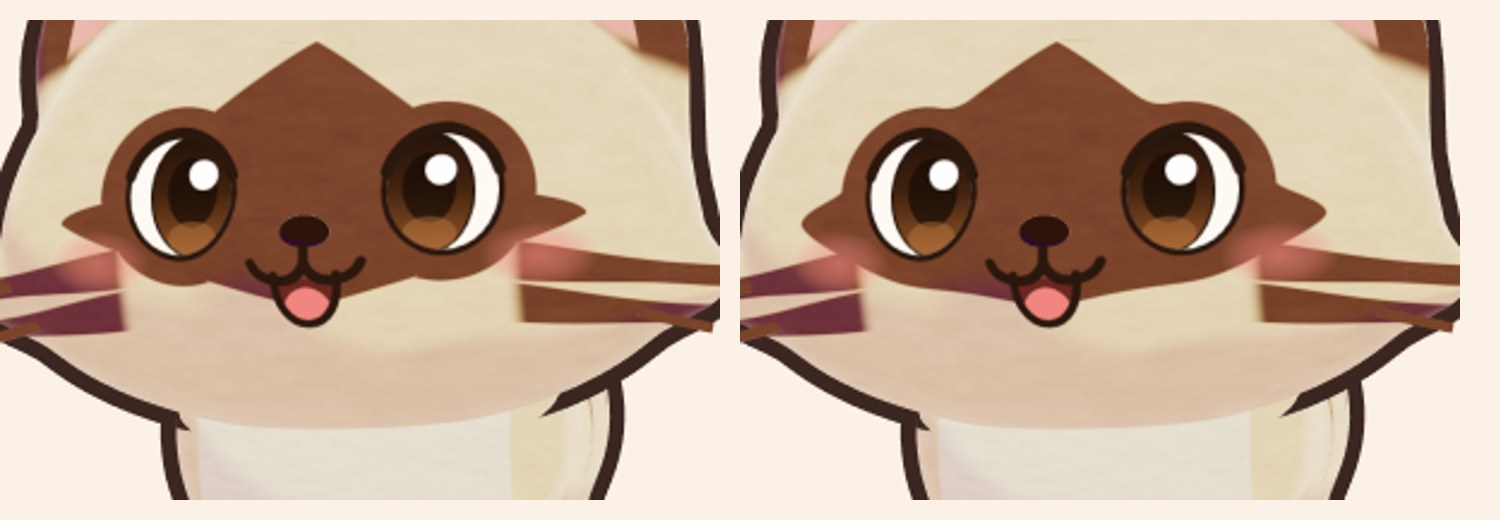
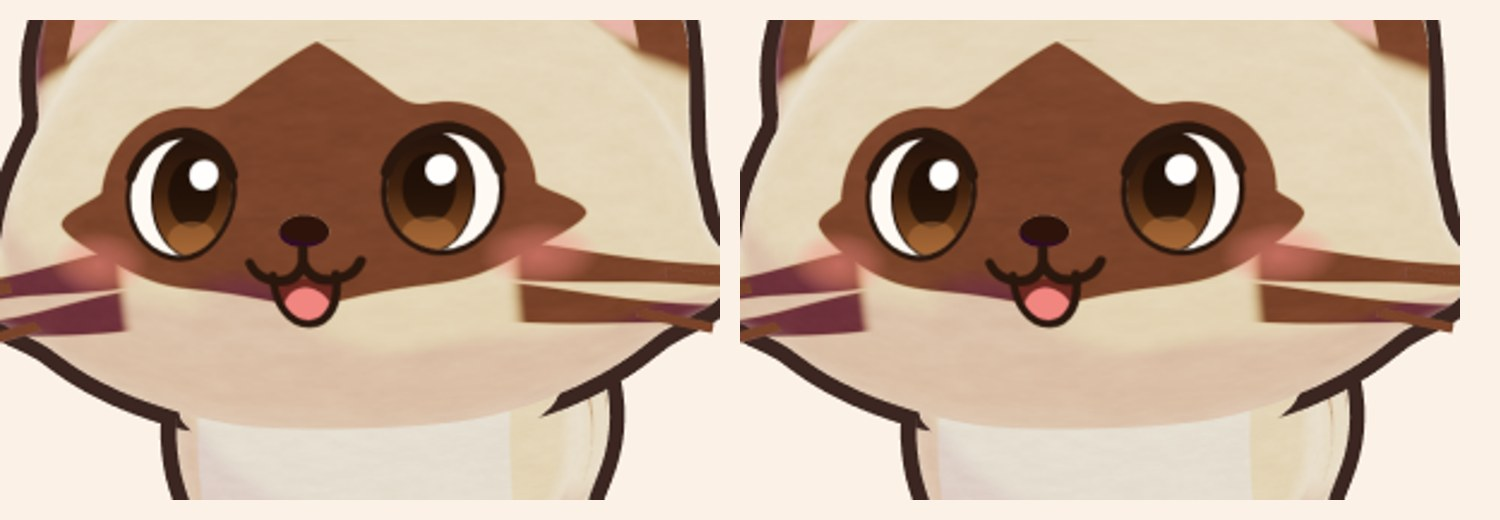
Mochi mask: shorter wing tips, eye rings curve straight into them
From KT: the wing tips reach less far out (0.8 -> 0.7 head units) and are a
little slimmer, and the ring-to-wing blend is wider, so the curve from each
eye ring runs directly to the tip.

Claude-Session: https://claude.ai/code/session_01CNaBwGhLPoh4dVwRCvdXRV

diff --git a/src/pets/catHead.jsx b/src/pets/catHead.jsx
@@ -42,10 +42,10 @@ const HEAD_GLSL = `vec3 p = vO; float ax = abs(p.x), w;
   // wing tip (no notch) and the underside runs in one smooth curve from the wing tips to the bottom point.
   float dD = p.y > 0.46 || p.y <= 0. ? -1. : 0.62*pow((0.46 - p.y)/0.46, 0.9) - ax;
   float dR = 0.27 - length(vec2(ax - 0.39, p.y));
-  float wg = p.y > -0.08 ? 0.8*sqrt(max(0., 1. - pow((p.y + 0.08)/0.13, 2.))) : 0.8*(1. - pow(clamp((-0.08 - p.y)/0.26, 0., 1.), 1.6));
+  float wg = p.y > -0.08 ? 0.7*sqrt(max(0., 1. - pow((p.y + 0.08)/0.1, 2.))) : 0.7*(1. - pow(clamp((-0.08 - p.y)/0.26, 0., 1.), 1.6));
   float dW = wg > .004 ? wg - ax : -1.; // (no zero-width sliver down the chin)
   float k1 = .06, h1 = clamp(.5 + .5*(dR - dD)/k1, 0., 1.), dDR = mix(dD, dR, h1) + k1*h1*(1. - h1);
-  float k2 = .16, h2 = clamp(.5 + .5*(dW - dDR)/k2, 0., 1.), hw = mix(dDR, dW, h2) + k2*h2*(1. - h2) + ax;
+  float k2 = .24, h2 = clamp(.5 + .5*(dW - dDR)/k2, 0., 1.), hw = mix(dDR, dW, h2) + k2*h2*(1. - h2) + ax;
   float m = min(hw - ax, p.z - 0.05); w = fwidth(m)*1.2 + 1e-4; float dark = smoothstep(-w, w, m);
   // whisker stripes on the cheeks: two tapered bands sloping down and out
   // (short: they start just outside the mask and taper to a point going back along the cheek)
